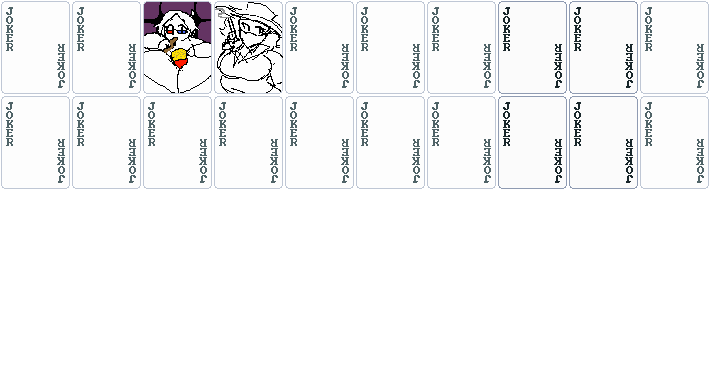
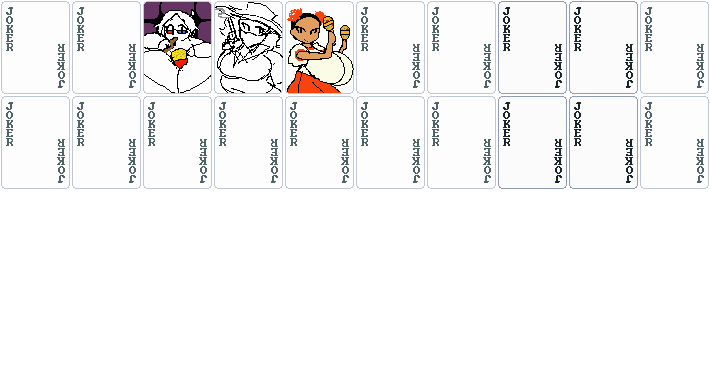
Dancer joker texture

Changed region(s): [[0.4028, 0.0, 0.4958, 0.2605]]

diff --git a/README.md b/README.md
@@ -20,3 +20,6 @@ if context.card and context.card.ability.set == "Joker" then
 **Gourmand**
 When a food joker is sold, +x0.5 Mult.
 (Currently x1.0 Mult)
+
+**Dancer** (Common)
+Scored Queens earn $5
